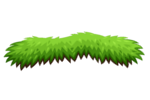
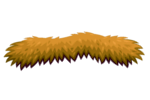
fix: modif couleur

Changed region(s): [[0.0267, 0.3, 0.96, 0.69]]

diff --git a/exos/game/src/main.c b/exos/game/src/main.c
@@ -26,10 +26,6 @@ int main(int argc, char *argv[]) {
 				{0, 700}};
     while (program_on) {
         SDL_Event event;
-	SDL_RenderClear(renderer);
-	createAllPlatforms(renderer, plat1, coordArray);
-	nextPlatform(coordArray, window);
-	
         while (program_on && SDL_PollEvent(&event)) {
             switch (event.type) {
                 case SDL_QUIT :
@@ -74,6 +70,8 @@ int main(int argc, char *argv[]) {
         }
 
 
+
+
         if (player.isJumping) {
             if (player.jumpTime >= JUMPTIME) {
                 player.isJumping = 0;
@@ -83,8 +81,13 @@ int main(int argc, char *argv[]) {
                 jump(&player);
             }
         }
+ 
+	// Plateforme
+	SDL_RenderClear(renderer);
+	createAllPlatforms(renderer, plat1, coordArray);
+	//nextPlatform(coordArray, window);
 
-        SDL_RenderClear(renderer);
+	// Saut
         SDL_SetRenderDrawColor(renderer, 255, 0, 0, 255);
         SDL_RenderDrawRect(renderer, &(player.rect));
         SDL_SetRenderDrawColor(renderer, 0, 0, 0, 255);

diff --git a/exos/game/headers/player.h b/exos/game/headers/player.h
@@ -2,7 +2,7 @@
 #define GAME_ZZ1_PLAYER_H
 #include <SDL2/SDL.h>
 #include <SDL2/SDL_image.h>
-#define JUMPTIME 312
+#define JUMPTIME 200
 typedef struct player_t {
     SDL_Rect rect;
     int dx;
